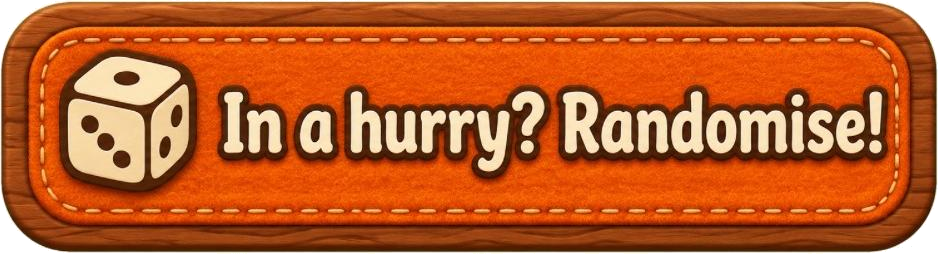
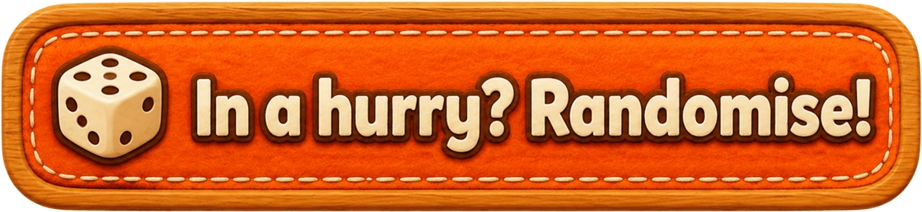
Fix iPad entrance and home screen layout
Improve portrait iPad entrance framing, reserve a central home-screen puppet stage, move the logo and actions to their intended positions, and replace the wide Randomise button with the lighter-border artwork.

diff --git a/src/styles.css b/src/styles.css
@@ -302,6 +302,31 @@ button:focus-visible {
   }
 }
 
+@media (orientation: portrait) and (min-aspect-ratio: 3 / 5) {
+  .workshop-entrance {
+    height: 100vh;
+  }
+
+  .entrance-brand {
+    top: max(44px, env(safe-area-inset-top));
+    width: min(440px, 54vw);
+  }
+
+  .entrance-door {
+    top: 45%;
+    width: min(43vw, 430px);
+    height: 45%;
+  }
+
+  .entrance-door span {
+    bottom: 11%;
+  }
+
+  .entrance-light {
+    top: 66%;
+  }
+}
+
 @media (prefers-reduced-motion: reduce) {
   .entrance-scene,
   .entrance-brand,
@@ -318,14 +343,14 @@ button:focus-visible {
 .welcome-screen {
   position: relative;
   isolation: isolate;
-  display: flex;
-  flex-direction: column;
-  justify-content: center;
+  display: grid;
+  grid-template-rows: auto minmax(0, 1fr) auto;
+  justify-items: center;
   align-items: center;
-  gap: clamp(14px, 3.1vh, 30px);
+  gap: clamp(8px, 1.5vh, 16px);
   height: 100vh;
   height: 100dvh;
-  padding: clamp(54px, 7vh, 72px) clamp(16px, 4vw, 48px) clamp(18px, 4vh, 46px);
+  padding: clamp(54px, 6vh, 72px) clamp(16px, 4vw, 48px) clamp(24px, 4vh, 48px);
   overflow: hidden;
   background:
     linear-gradient(rgb(72 33 10 / 8%), rgb(72 33 10 / 12%)),
@@ -341,12 +366,12 @@ button:focus-visible {
 }
 
 .welcome-brand {
-  flex: 0 1 auto;
   z-index: 2;
   display: grid;
   place-items: center;
   width: min(620px, 86vw);
   min-height: 0;
+  align-self: start;
 }
 
 .welcome-logo {
@@ -357,14 +382,22 @@ button:focus-visible {
   filter: drop-shadow(0 14px 14px rgb(61 31 13 / 24%));
 }
 
+.welcome-puppet-stage {
+  z-index: 1;
+  width: min(520px, 70vw);
+  height: 100%;
+  min-height: 0;
+  pointer-events: none;
+}
+
 .welcome-actions {
-  flex: 0 0 auto;
   z-index: 2;
   display: grid;
   width: min(410px, 84vw);
   justify-items: center;
   gap: clamp(8px, 1.5vh, 14px);
   padding-bottom: max(0px, env(safe-area-inset-bottom));
+  align-self: end;
 }
 
 .welcome-actions .ui-art-button {
@@ -1046,8 +1079,8 @@ button:focus-visible {
 
 @media (max-width: 900px) {
   .welcome-screen {
-    gap: clamp(12px, 2.6vh, 22px);
-    padding: clamp(52px, 7vh, 66px) 14px clamp(16px, 3vh, 30px);
+    gap: clamp(8px, 1.3vh, 14px);
+    padding: clamp(52px, 6vh, 66px) 14px clamp(22px, 3vh, 34px);
   }
 
   .welcome-logo {
@@ -1249,8 +1282,8 @@ button:focus-visible {
   }
 
   .welcome-screen {
-    gap: clamp(10px, 2.1vh, 16px);
-    padding: 54px 12px 18px;
+    gap: clamp(7px, 1.2vh, 12px);
+    padding: 54px 12px 20px;
   }
 
   .welcome-logo {
@@ -1375,7 +1408,7 @@ button:focus-visible {
   }
 
   .welcome-screen {
-    gap: 10px;
+    gap: 7px;
     padding-top: 50px;
     padding-bottom: 16px;
   }

diff --git a/src/components/WorkshopEntrance.tsx b/src/components/WorkshopEntrance.tsx
@@ -2,6 +2,7 @@ import { useEffect, useRef, useState } from 'react';
 import pubbetsWorkshopLogo from '../../assets/ui/logo/pubbets-workshop-logo.png';
 import workshopExteriorLandscape from '../../assets/ui/backgrounds/workshop-exterior-landscape.webp';
 import workshopExteriorPortrait from '../../assets/ui/backgrounds/workshop-exterior-portrait.webp';
+import workshopExteriorTablet from '../../assets/ui/backgrounds/workshop-exterior-tablet.webp';
 
 type Props = {
   onEnter: () => void;
@@ -30,6 +31,7 @@ export function WorkshopEntrance({ onEnter, onEntered }: Props) {
   return (
     <main className={`workshop-entrance${opening ? ' is-opening' : ''}`}>
       <picture className="entrance-scene" aria-hidden="true">
+        <source media="(orientation: portrait) and (min-aspect-ratio: 3 / 5)" srcSet={workshopExteriorTablet} />
         <source media="(orientation: portrait)" srcSet={workshopExteriorPortrait} />
         <img src={workshopExteriorLandscape} alt="" />
       </picture>

diff --git a/src/components/WelcomeScreen.tsx b/src/components/WelcomeScreen.tsx
@@ -37,6 +37,7 @@ export function WelcomeScreen({ onStart, onRandomize, soundEnabled, tunePlaying,
       <header className="welcome-brand" aria-label="Pubbets Workshop">
         <img className="welcome-logo" src={pubbetsWorkshopLogo} alt="Pubbets Workshop" />
       </header>
+      <div className="welcome-puppet-stage" aria-hidden="true" />
       <div className="welcome-actions">
         <UiArtButton asset="startBuilding" label="Start building" size="long" onClick={onStart} />
         <UiArtButton asset="randomiseWide" label="In a hurry? Randomise!" size="long" onClick={onRandomize} />

diff --git a/docs/DECISIONS.md b/docs/DECISIONS.md
@@ -83,10 +83,23 @@ mobile browsers, followed by a short move-through-the-door transition into the
 existing interior home screen.
 
 - Use one landscape exterior composition for desktop and landscape tablets.
-- Use one matching portrait composition for phones and portrait tablets.
-- Do not create separate images for individual devices.
+- Use a 4:5 tablet portrait composition for iPad-like browser viewports.
+- Use a taller matching portrait composition for phones.
+- Do not create separate images for individual device models.
 - Show the exterior once per app load; returning home from the builder goes to
   the interior home screen.
 - Saved builds are out of scope.
 - Easter eggs are postponed. Seasonal visual overlays such as snow may be added
   later without replacing the base exterior artwork.
+
+## 2026-08-26 — Keep the interior home screen ready for a featured puppet
+
+The interior home screen uses a clear top-centre-bottom composition: the
+Pubbets Workshop logo stays at the top, an open stage occupies the centre, and
+the Start Building and Randomise actions stay together at the bottom.
+
+- The centre remains visually open until the final aligned body, clothing, and
+  feature artwork is ready.
+- That centre stage will later show a randomly changing assembled puppet.
+- The wide Randomise button uses the same light wood border treatment as the
+  Start Building button.
